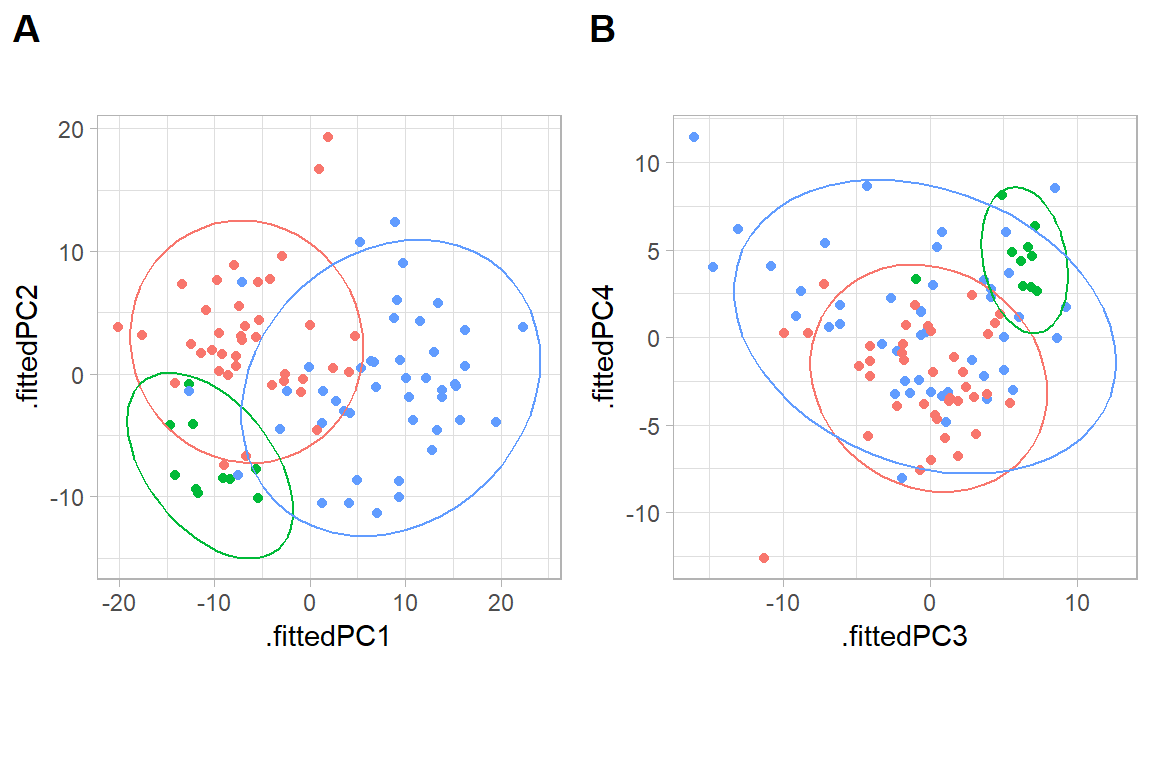
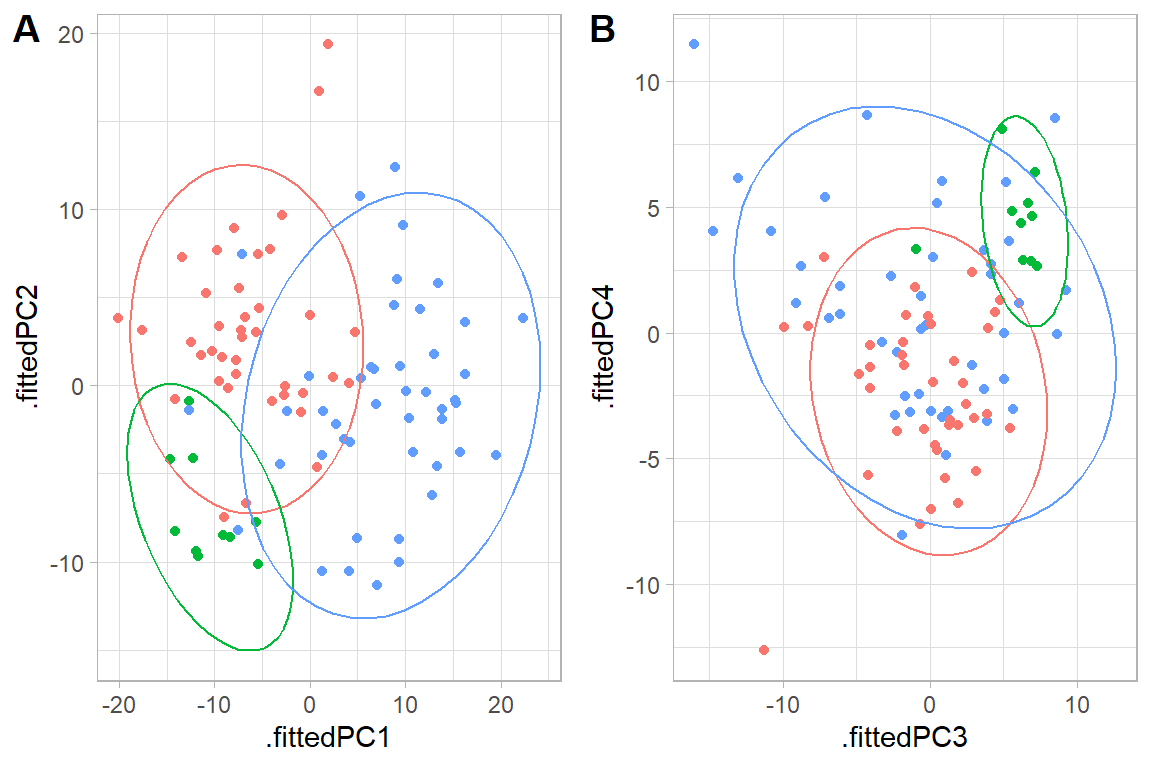
updates

diff --git a/docs/pca_plots.html b/docs/pca_plots.html
@@ -2368,11 +2368,40 @@ code span.wa { color: #60a0b0; font-weight: bold; font-style: italic; } /* Warni
 </div>
 <p>Compare this to plotting non-normalized concentrations</p>
 <div class="cell">
+<div class="sourceCode" id="cb4"><pre class="downlit sourceCode r code-with-copy"><code class="sourceCode R"><span class="co"># Use broom to make the data ggplot ready and include annotations</span>
+<span class="va">pca_annot</span> <span class="op">&lt;-</span> <span class="va">pca_res</span> |&gt; <span class="fu">broom</span><span class="fu">::</span><span class="fu"><a href="https://generics.r-lib.org/reference/augment.html">augment</a></span><span class="op">(</span><span class="va">d_long</span><span class="op">)</span>
+
+<span class="va">pca_contrib</span> <span class="op">&lt;-</span> <span class="va">pca_res</span> |&gt; <span class="fu"><a href="https://generics.r-lib.org/reference/tidy.html">tidy</a></span><span class="op">(</span>matrix <span class="op">=</span> <span class="st">"eigenvalues"</span><span class="op">)</span>
+
+<span class="fu"><a href="https://ggplot2.tidyverse.org/reference/ggplot.html">ggplot</a></span><span class="op">(</span>data <span class="op">=</span> <span class="va">pca_annot</span>, <span class="fu"><a href="https://ggplot2.tidyverse.org/reference/aes.html">aes</a></span><span class="op">(</span><span class="va">.fittedPC1</span>, <span class="va">.fittedPC2</span>, color <span class="op">=</span> <span class="va">Group</span><span class="op">)</span><span class="op">)</span> <span class="op">+</span> 
+<span class="fu"><a href="https://ggplot2.tidyverse.org/reference/geom_point.html">geom_point</a></span><span class="op">(</span>size <span class="op">=</span> <span class="fl">1.5</span><span class="op">)</span> <span class="op">+</span> 
+<span class="fu"><a href="https://ggplot2.tidyverse.org/reference/stat_ellipse.html">stat_ellipse</a></span><span class="op">(</span>level <span class="op">=</span> <span class="fl">0.95</span><span class="op">)</span> <span class="op">+</span>
+<span class="fu"><a href="https://ggplot2.tidyverse.org/reference/ggtheme.html">theme_light</a></span><span class="op">(</span><span class="op">)</span> <span class="op">+</span>
+<span class="fu"><a href="https://ggplot2.tidyverse.org/reference/theme.html">theme</a></span><span class="op">(</span>aspect.ratio<span class="op">=</span><span class="fl">1</span><span class="op">)</span></code><button title="Copy to Clipboard" class="code-copy-button"><i class="bi"></i></button></pre></div>
 <div class="cell-output-display">
 <p><img src="pca_plots_files/figure-html/pcaplot-1-1.png" class="img-fluid" width="576"></p>
 </div>
 </div>
 <div class="cell">
+<div class="sourceCode" id="cb5"><pre class="downlit sourceCode r code-with-copy"><code class="sourceCode R"><span class="co"># Use broom to make the data ggplot ready and include annotations</span>
+<span class="va">pca_annot</span> <span class="op">&lt;-</span> <span class="va">pca_res</span> |&gt; <span class="fu">broom</span><span class="fu">::</span><span class="fu"><a href="https://generics.r-lib.org/reference/augment.html">augment</a></span><span class="op">(</span><span class="va">d_long</span><span class="op">)</span>
+
+<span class="va">pca_12</span> <span class="op">&lt;-</span> <span class="fu"><a href="https://ggplot2.tidyverse.org/reference/ggplot.html">ggplot</a></span><span class="op">(</span>data <span class="op">=</span> <span class="va">pca_annot</span>, <span class="fu"><a href="https://ggplot2.tidyverse.org/reference/aes.html">aes</a></span><span class="op">(</span><span class="va">.fittedPC1</span>, <span class="va">.fittedPC2</span>, color <span class="op">=</span> <span class="va">Group</span><span class="op">)</span><span class="op">)</span> <span class="op">+</span> 
+  <span class="fu"><a href="https://ggplot2.tidyverse.org/reference/geom_point.html">geom_point</a></span><span class="op">(</span>size <span class="op">=</span> <span class="fl">1.5</span><span class="op">)</span> <span class="op">+</span> 
+  <span class="fu"><a href="https://ggplot2.tidyverse.org/reference/stat_ellipse.html">stat_ellipse</a></span><span class="op">(</span>level <span class="op">=</span> <span class="fl">0.95</span><span class="op">)</span><span class="op">+</span>
+  <span class="fu"><a href="https://ggplot2.tidyverse.org/reference/ggtheme.html">theme_light</a></span><span class="op">(</span><span class="op">)</span> <span class="op">+</span>
+  <span class="fu"><a href="https://ggplot2.tidyverse.org/reference/theme.html">theme</a></span><span class="op">(</span>legend.position <span class="op">=</span> <span class="st">"none"</span><span class="op">)</span>
+
+
+<span class="va">pca_34</span> <span class="op">&lt;-</span> <span class="fu"><a href="https://ggplot2.tidyverse.org/reference/ggplot.html">ggplot</a></span><span class="op">(</span>data <span class="op">=</span> <span class="va">pca_annot</span>, <span class="fu"><a href="https://ggplot2.tidyverse.org/reference/aes.html">aes</a></span><span class="op">(</span><span class="va">.fittedPC3</span>, <span class="va">.fittedPC4</span>, color <span class="op">=</span> <span class="va">Group</span><span class="op">)</span><span class="op">)</span> <span class="op">+</span> 
+  <span class="fu"><a href="https://ggplot2.tidyverse.org/reference/geom_point.html">geom_point</a></span><span class="op">(</span>size <span class="op">=</span> <span class="fl">1.5</span><span class="op">)</span> <span class="op">+</span> 
+  <span class="fu"><a href="https://ggplot2.tidyverse.org/reference/stat_ellipse.html">stat_ellipse</a></span><span class="op">(</span>level <span class="op">=</span> <span class="fl">0.95</span><span class="op">)</span> <span class="op">+</span>
+  <span class="fu"><a href="https://ggplot2.tidyverse.org/reference/ggtheme.html">theme_light</a></span><span class="op">(</span><span class="op">)</span> <span class="op">+</span>
+<span class="fu"><a href="https://ggplot2.tidyverse.org/reference/theme.html">theme</a></span><span class="op">(</span>legend.position <span class="op">=</span> <span class="st">"none"</span><span class="op">)</span>
+
+<span class="fu">cowplot</span><span class="fu">::</span><span class="fu"><a href="https://wilkelab.org/cowplot/reference/plot_grid.html">plot_grid</a></span><span class="op">(</span><span class="va">pca_12</span>, <span class="va">pca_34</span>, nrow <span class="op">=</span> <span class="fl">1</span>, 
+                   rel_widths <span class="op">=</span> <span class="fu"><a href="https://rdrr.io/r/base/c.html">c</a></span><span class="op">(</span><span class="fl">1</span>,<span class="fl">1</span><span class="op">)</span>, 
+                   labels <span class="op">=</span> <span class="fu"><a href="https://rdrr.io/r/base/c.html">c</a></span><span class="op">(</span><span class="st">"A"</span>,<span class="st">"B"</span><span class="op">)</span><span class="op">)</span></code><button title="Copy to Clipboard" class="code-copy-button"><i class="bi"></i></button></pre></div>
 <div class="cell-output-display">
 <p><img src="pca_plots_files/figure-html/pcaplot-2-1.png" class="img-fluid" width="576"></p>
 </div>

diff --git a/docs/regular_expressions.html b/docs/regular_expressions.html
@@ -308,9 +308,26 @@ code span.wa { color: #60a0b0; font-weight: bold; font-style: italic; } /* Warni
 Examples: <code>[1-9]+</code>, <code>[1-9]{6}</code>, <code>\\d{6}</code>, <code>\\s+</code>
 </li>
 </ul>
+<div class="cell">
+<div class="sourceCode" id="cb2"><pre class="downlit sourceCode r code-with-copy"><code class="sourceCode R"><span class="co"># select PE and PC species (= match either PC or PE)</span>
+<span class="va">mydata</span> |&gt; <span class="fu"><a href="https://stringr.tidyverse.org/reference/str_subset.html">str_subset</a></span><span class="op">(</span><span class="st">"^PC|^PE"</span><span class="op">)</span>
+
+<span class="co"># select species ending with :4 (e.g. CE 20:4). Need 'escape' the : using \\</span>
+<span class="va">mydata</span> |&gt; <span class="fu"><a href="https://stringr.tidyverse.org/reference/str_subset.html">str_subset</a></span><span class="op">(</span><span class="st">"\\:4$"</span><span class="op">)</span> 
+
+<span class="co"># select PC, PE, PI, PS and PG. Match a P at start and a selection of C,E,I,S,G</span>
+<span class="va">mydata</span> |&gt; <span class="fu"><a href="https://stringr.tidyverse.org/reference/str_subset.html">str_subset</a></span><span class="op">(</span><span class="st">"^P[CEISG]"</span><span class="op">)</span>
+
+<span class="co"># select all PC but not PC O- and PC P- (match PC start, a space, and a digit)</span>
+<span class="va">mydata</span> |&gt; <span class="fu"><a href="https://stringr.tidyverse.org/reference/str_subset.html">str_subset</a></span><span class="op">(</span><span class="st">"^PC \\d"</span><span class="op">)</span>
+
+<span class="co"># select all Cer with with FA chains C14-C18</span>
+<span class="va">mydata</span> |&gt; <span class="fu"><a href="https://stringr.tidyverse.org/reference/str_subset.html">str_subset</a></span><span class="op">(</span><span class="st">"^Cer .+/1[4-8]"</span><span class="op">)</span>
+<span class="va">mydata</span> |&gt; <span class="fu"><a href="https://stringr.tidyverse.org/reference/str_subset.html">str_subset</a></span><span class="op">(</span><span class="st">"^Cer d\\d{2}\\:[0-2]\\/1[4-8]"</span><span class="op">)</span></code><button title="Copy to Clipboard" class="code-copy-button"><i class="bi"></i></button></pre></div>
+</div>
 <p>To test or explore your regular expressions the stringr function str_view() can be helpful..</p>
 <div class="cell">
-<div class="sourceCode" id="cb2"><pre class="downlit sourceCode r code-with-copy"><code class="sourceCode R"><span class="co"># Shows all elements with matched items highlighted</span>
+<div class="sourceCode" id="cb3"><pre class="downlit sourceCode r code-with-copy"><code class="sourceCode R"><span class="co"># Shows all elements with matched items highlighted</span>
 <span class="va">mydata</span> |&gt; <span class="fu"><a href="https://stringr.tidyverse.org/reference/str_view.html">str_view</a></span><span class="op">(</span><span class="st">"^Cer d\\d{2}\\:[0-2]\\/1[4-8]"</span>, match <span class="op">=</span> <span class="cn">FALSE</span><span class="op">)</span>
 
 <span class="co"># Shows only matched items with matches characters highlighted</span>

diff --git a/docs/datawrangling.html b/docs/datawrangling.html
@@ -315,7 +315,8 @@ code span.wa { color: #60a0b0; font-weight: bold; font-style: italic; } /* Warni
 <div class="cell-output cell-output-stdout">
 <pre><code>#&gt; Reading 'Testdata_Lipidomics_MHQuant_Detailed_V2.csv' ... 
 #&gt; 
-indexing Testdata_Lipidomics_MHQuant_Detailed_V2.csv [======] 2.15GB/s, eta:  0s
+indexing Testdata_Lipidomics_MHQuant_Detailed_V2.csv [=====-] 2.15GB/s, eta:  0s
+indexing Testdata_Lipidomics_MHQuant_Detailed_V2.csv [======] 1.81GB/s, eta:  0s
                                                                                 
 Imported  215 samples with 428 transitions</code></pre>
 </div>
